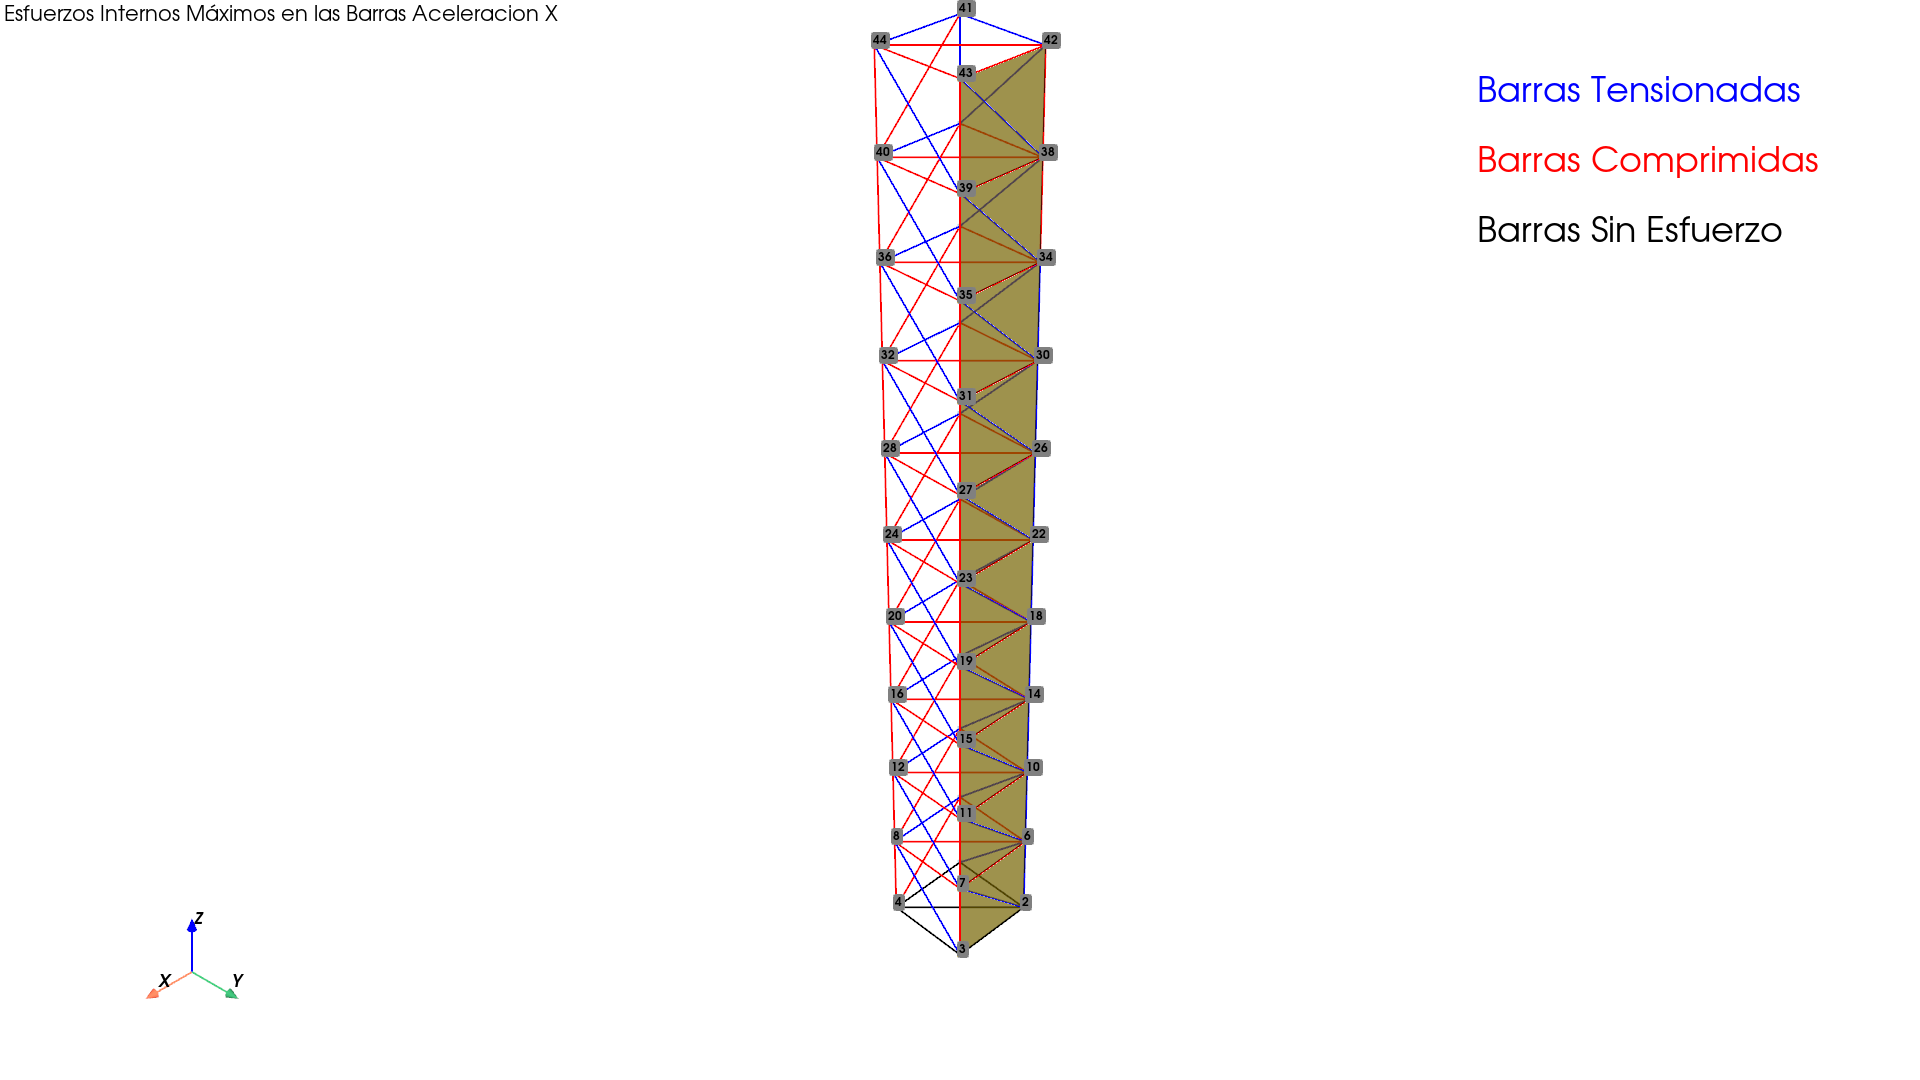
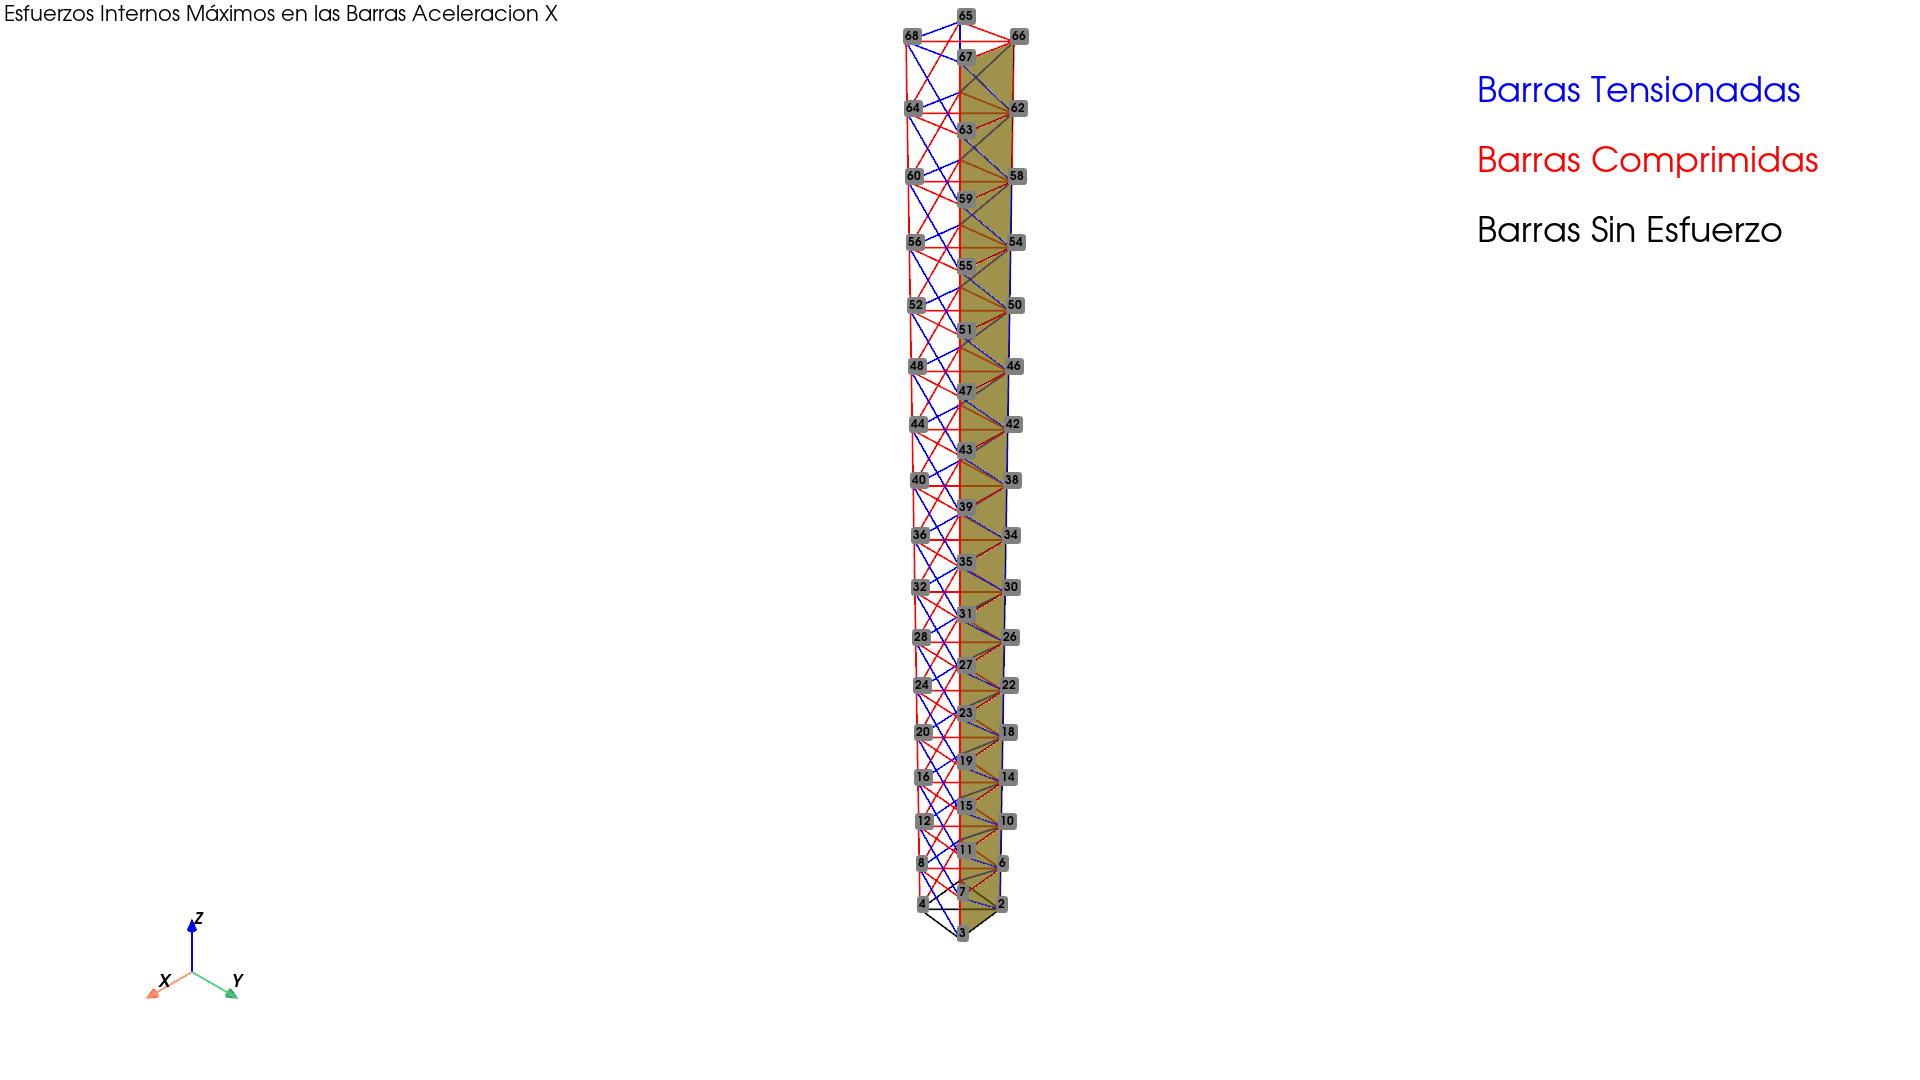
avance codigo

Changed region(s): [[0.4375, 0.0, 0.5625, 0.8861]]

diff --git a/CODIGO/ENTREGA_2/codigo.py b/CODIGO/ENTREGA_2/codigo.py
@@ -339,53 +339,85 @@ def graficar_barras_coloreadas(elements, fuerzas_barras, titulo, nodos_paneles):
     plotter.screenshot(filename='INFORME/GRAFICOS/'+titulo+' '+cruz, transparent_background=False)
 
 def graficar_barras_coloreadas_por_esfuerzo_maximo(elements, nodes, fuerzas_barras, titulo):
-    
-    import pyvista as pv
-    import numpy as np
+
+    plotter = pv.Plotter(window_size=[1920, 1080])
 
     # Asegurarse de que 'nodes' es un array de numpy
     nodes = np.array(nodes)
 
-    # Obtener las fuerzas originales (sin normalizar)
-    fuerzas = np.array([fuerzas_barras.get(element_id, 0) for element_id, _, _ in elements])
+    f_max = max(fuerzas_barras.values())
+    
+    #Ahora creo un diccionario con las fuerzas normalizadas
+    fuerzas_normalizadas = {}
 
-    # Crear lista de líneas en el formato correcto
+    for key in fuerzas_barras:
+        fuerzas_normalizadas[key] = fuerzas_barras[key]/(f_max)
+
+    # Crear lista de líneas y colores
     lines = []
+    colors = []
     for element in elements:
         element_id, nodo_i, nodo_j = element
-        # Cada línea se define como [número de puntos, índice del nodo 1, índice del nodo 2]
-        # Restar 1 si los nodos están numerados desde 1
-        lines.extend([2, nodo_i - 1, nodo_j - 1])
+        lines.append([2, nodo_i - 1, nodo_j - 1])
+        
+        fuerza_normalizada = fuerzas_normalizadas.get(element_id, 0)
+        
+        colors.append(255*fuerza_normalizada)
 
-    # Convertir 'lines' a un array plano de tipo entero
-    lines = np.array(lines, dtype=np.int_)
+    truss = pv.PolyData(nodes)
+    truss.lines = np.hstack(lines)
 
-    # Crear el objeto PolyData
-    truss = pv.PolyData()
-    truss.points = nodes
-    truss.lines = lines
+    # Añadir cada barra con su color correspondiente
+    for i, line in enumerate(truss.lines.reshape(-1, 3)):
+        start_idx = line[1]
+        end_idx = line[2]
+        points = nodes[[start_idx, end_idx]]
+        segment = pv.Line(points[0], points[1])
+        
+        # Determinar el color en la escala azul-verde-rojo
+        color_value = colors[i]
+        if color_value > 128:  # De verde a azul
+            green_component = int(255 - 2 * (color_value - 128))  # Decrece de 255 a 0
+            blue_component = int(2 * (color_value - 128))         # Aumenta de 0 a 255
+            color_rgb = [0, green_component, blue_component]
+        else:  # De rojo a verde
+            red_component = int(255 - 2 * color_value)            # Decrece de 255 a 0
+            green_component = int(2 * color_value)                # Aumenta de 0 a 255
+            color_rgb = [red_component, green_component, 0]
 
-    # Verificar que el número de celdas coincide con el número de fuerzas
-    assert truss.n_cells == len(fuerzas), f"Número de celdas ({truss.n_cells}) no coincide con el número de fuerzas ({len(fuerzas)})."
 
-    # Asignar las fuerzas como datos de las celdas (barras)
-    truss.cell_data['fuerzas'] = fuerzas
 
-    # Crear el plotter y añadir la malla
-    plotter = pv.Plotter(window_size=[1920, 1080])
-    plotter.add_mesh(truss, scalars='fuerzas', cmap='seismic', line_width=5, show_scalar_bar=True)
-    plotter.add_title(titulo, font_size=14)
-
+        plotter.add_mesh(segment, color=color_rgb, line_width=2)
+    
     # Agregar etiquetas de números de nodos (opcional)
-    node_tags = np.arange(1, len(nodes) + 1)
+    node_tags = ops.getNodeTags()
     labels = [str(tag) for tag in node_tags]
     plotter.add_point_labels(nodes, labels, point_size=5, font_size=12, text_color='black', name='labels')
+    #visualizar_estructura_rigida(nodos_paneles, plotter, color='gold')
+    plotter.add_text(titulo, position='upper_left', font_size=10)
+    plotter.add_legend([("Tension Maxima", "blue"), ("Tension Media", "green"),("Tension Minima", "red")])
+    
+    # Agregar la leyenda de la escala de colores en la parte inferior
+    # Agregar la barra de colores con el rango de valores de 0 a f_max
+    plotter.add_scalar_bar(title="Esfuerzo Interno Normalizado", 
+                        position_x=0.3, position_y=0.05, 
+                        width=0.4, height=0.05, 
+                        label_font_size=10, title_font_size=12, 
+                        n_labels=5)
 
-    plotter.show_axes()
-    plotter.show()
+    # Ajustar el rango de valores de la barra de colores
+    plotter.update_scalar_bar_range([0, f_max*100])
+
 
     
-    plotter.screenshot(filename='INFORME/GRAFICOS/'+titulo, transparent_background=False)
+    
+    plotter.show_axes()
+    plotter.show()
+    plotter.screenshot(filename='INFORME/GRAFICOS/'+titulo+' '+cruz, transparent_background=False)
+
+    
+    
+    
 
 
 def calculo_inercial (masa_acumulada_por_nodo, elements, conexiones_paneles, solucion, nodos_paneles):

diff --git a/CODIGO/ENTREGA_2/variables.py b/CODIGO/ENTREGA_2/variables.py
@@ -2,8 +2,8 @@ import numpy as np
 
 #Carbono
 E = 338e9 #GPa
-D1 = 0.0050 #m
-D2 = 0.002500 #m
+D1 = 0.0058 #m
+D2 = 0.002400 #m
 gamma = 1.91 #g/cm3
 gamma = gamma*1000 #kg/m3
 
@@ -23,7 +23,7 @@ alpha = 0.5e-6 #Coeficiente de dilatacion termica
 deltaT = 100
 
 #Variable para agregar barras centrales
-barras_centrales = True
+barras_centrales = False
 
 if barras_centrales:
         cruz = 'True'
